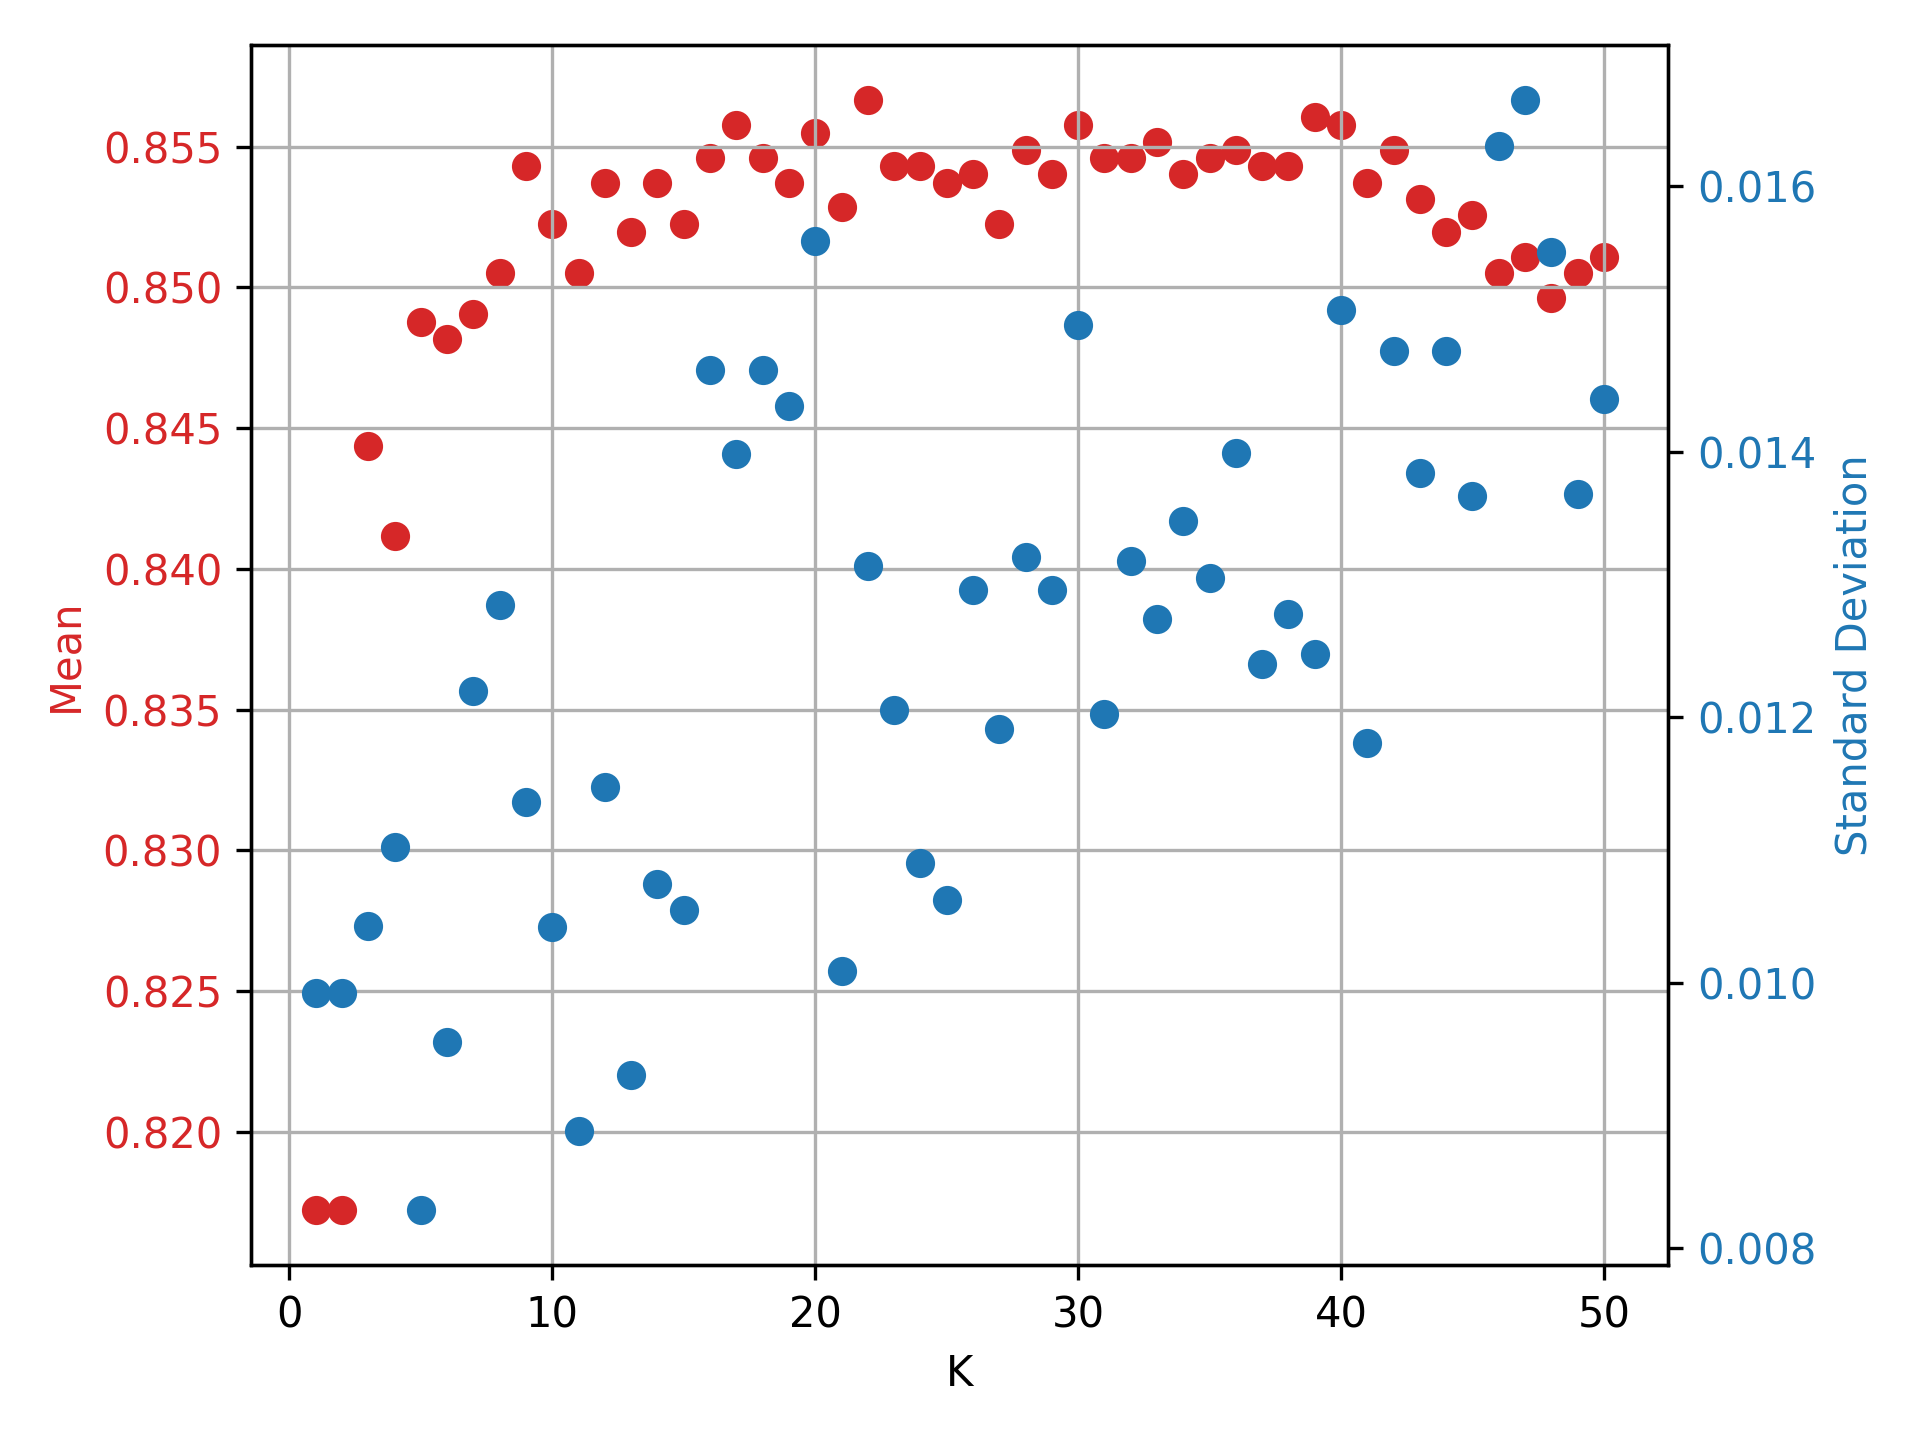
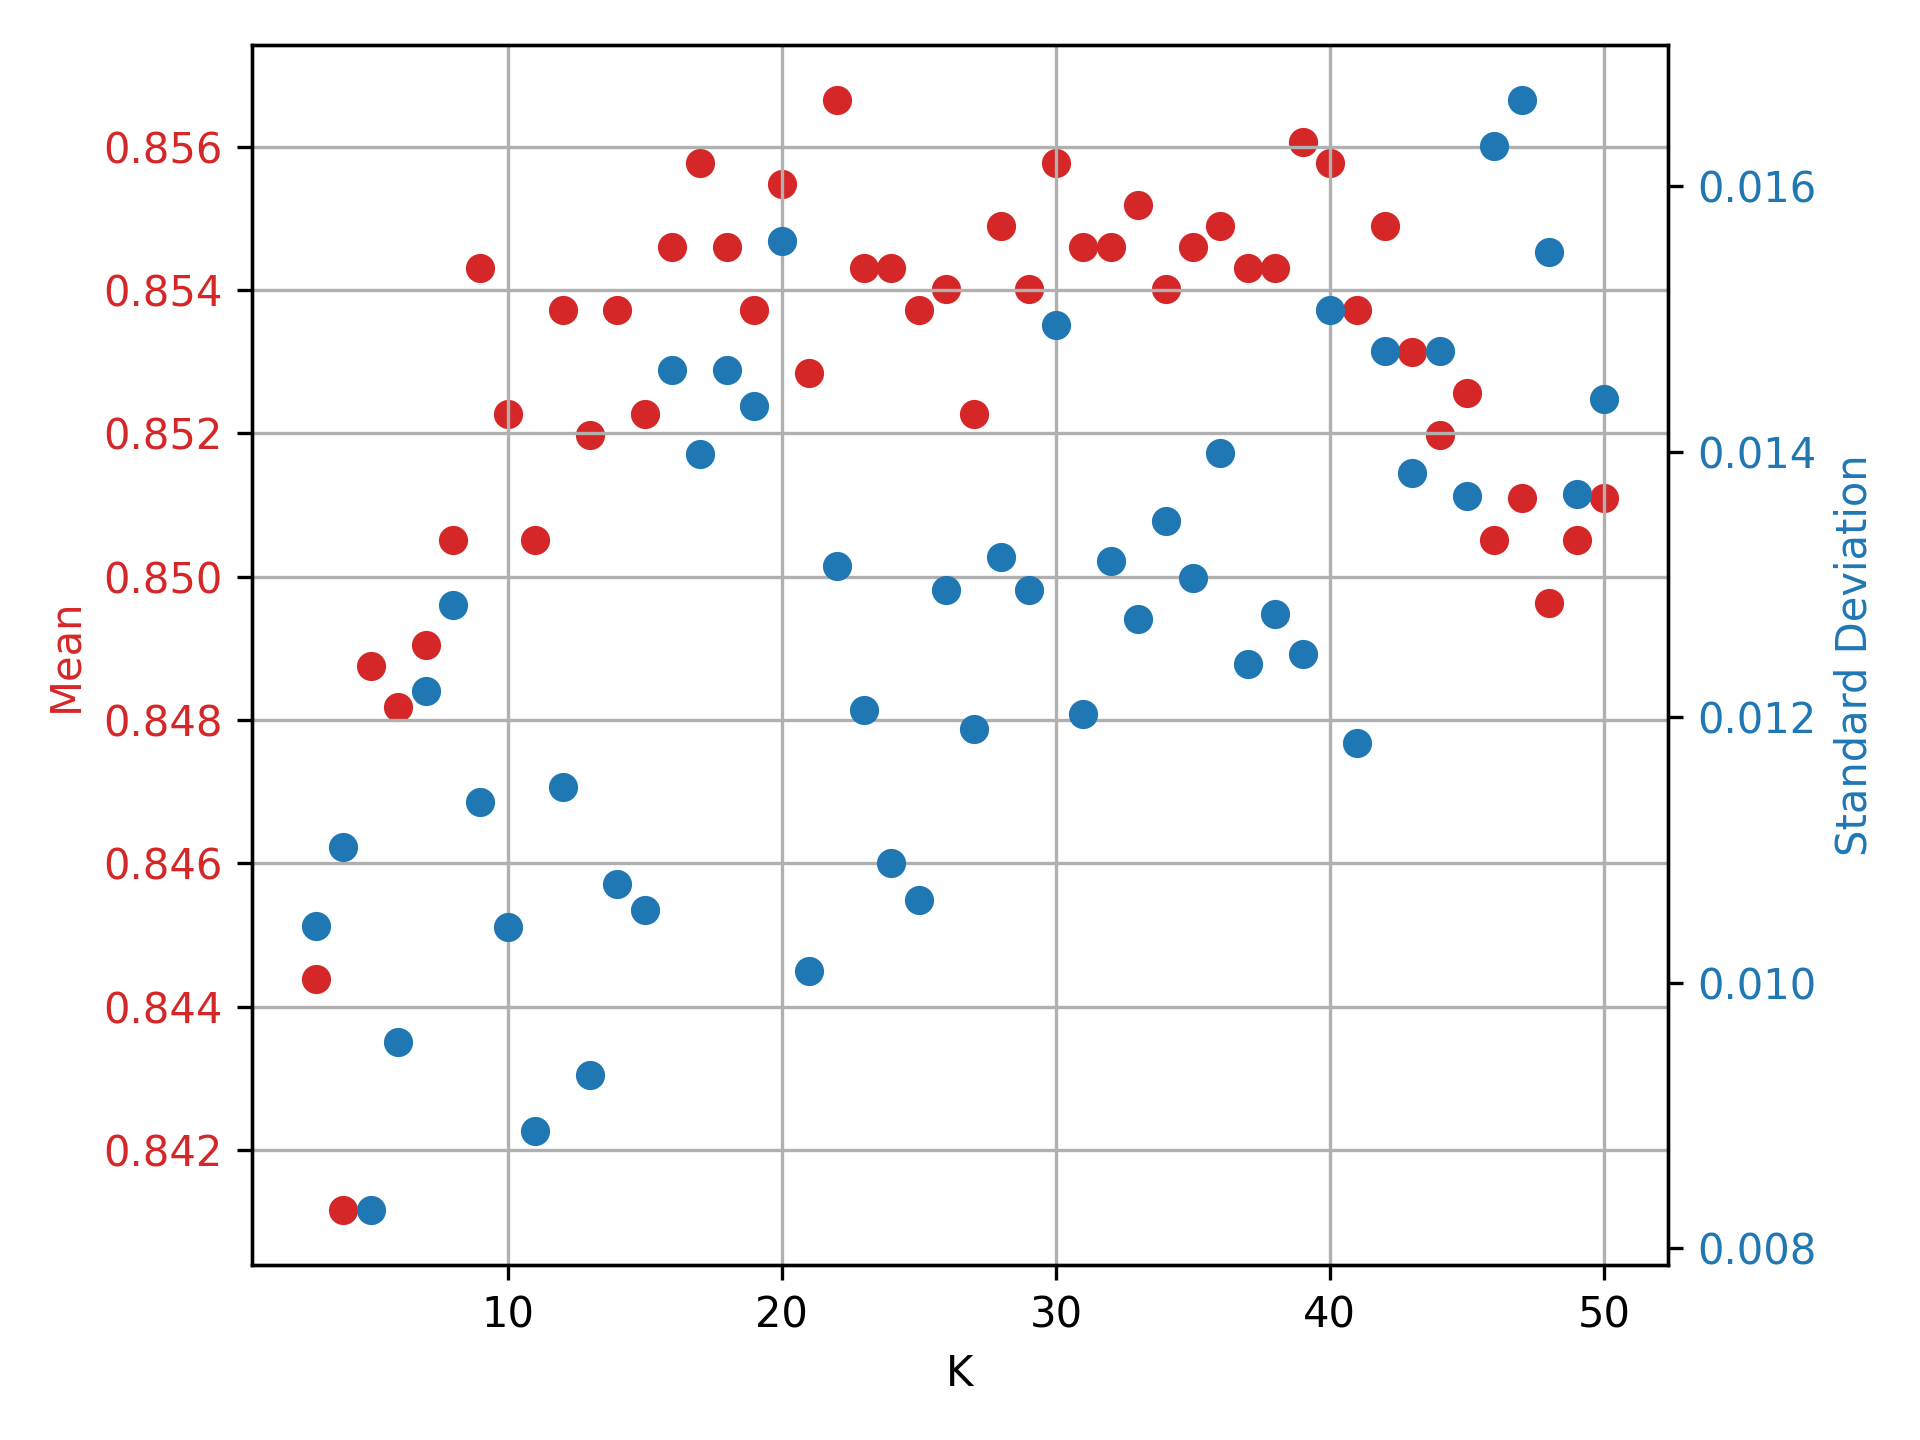
Made KNN_comparison clearer

diff --git a/classifier.py b/classifier.py
@@ -30,11 +30,11 @@ model3 = GradientBoostingClassifier(loss="exponential", random_state=0, n_estima
 scores3 = cross_val_score(model3, X_train_std, y_train_std, cv=5, scoring="accuracy")
 print(scores3.mean(), scores3.std(), "Boosting")
 
-# # KNN model performance grapher with respect to k - disabled by default as graph is already obtained
-# # initialise list of data for each iteration
+# KNN model performance grapher with respect to k - disabled by default as graph is already obtained
+# initialise list of data for each iteration
 # perf_list = []
 # # for loop to iterate through n_neighbours (k) from 1 to 100, then add to a list of tuples
-# for i in range(1, 51):
+# for i in range(3, 51):
 #       model4 = KNeighborsClassifier(n_neighbors=i, weights="distance", algorithm="ball_tree", p=2)
 #       scores4 = cross_val_score(model4, X_train_std, y_train_std, cv=5, scoring="accuracy")
 #       perf_list.append((scores4.mean(), scores4.std(), i))
